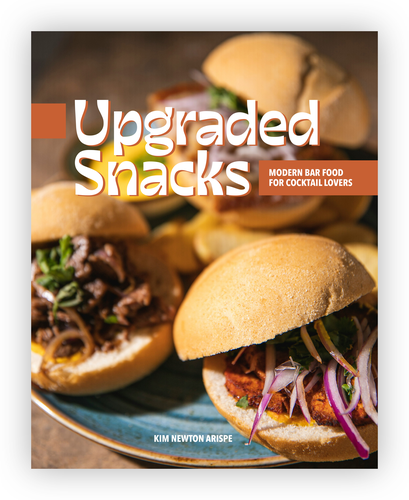
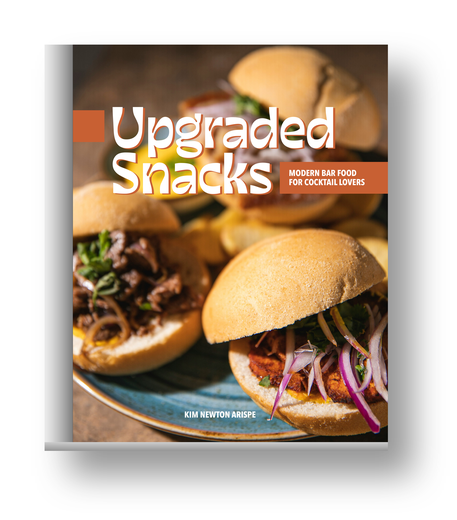
Refine PDP book mockups: byline, neutral spine, real depth
Adds the missing "Kim Newton Arispe" byline above each title in the
PDP's "More from author" carousel, and rebuilds the book mockup
images to actually look like physical books: a neutral gray/white
spine bevel (was incorrectly showing printed spine/back-cover art),
a visible bottom page-edge for thickness, and an offset directional
shadow instead of a symmetric blur.

diff --git a/src/CheckoutLinkApp.jsx b/src/CheckoutLinkApp.jsx
@@ -63,11 +63,12 @@ const BLURB_LOGO_EMAIL = "/assets/blurb-logo-email.png";  // full-color logo for
 const US_FLAG = "/assets/us-flag.png";  // Codex dashboard nav region flag (node 4248:8889) — flat icon, not the emoji glyph
 const BOOK_STIRRED_OBSESSION = "/assets/book-stirred-obsession.jpg";
 const BOOK_SPIRIT_SMOKE_SALT = "/assets/book-spirit-smoke-salt.jpg";
-/* Same front covers as above, given a soft drop shadow (front cover only, no
-   spine) matching BOOK_COVER's treatment — used only on the PDP's "More from
-   author" carousel, which shows other titles as physical books rather than
-   flat cover art. Setup/Instant Stores/All Projects keep the flat,
-   trim-accurate crops above. */
+/* Same front covers as above, composited onto a neutral gray/white spine
+   bevel (a lighting gradient + crease, not printed spine art) plus a soft
+   drop shadow (Figma 3709:18021, "Product Carousel") — used only on the
+   PDP's "More from author" carousel, which shows other titles as physical
+   books rather than flat cover art. Setup/Instant Stores/All Projects keep
+   the flat, trim-accurate crops above. */
 const BOOK_EVERYDAY_MOCKTAILS_MOCKUP = "/assets/book-everyday-mocktails-mockup.png";
 const BOOK_UPGRADED_SNACKS_MOCKUP = "/assets/book-upgraded-snacks-mockup.png";
 const PUBLISH_CELEBRATION = "/assets/publish-celebration.png";
@@ -1447,12 +1448,11 @@ function ProductPage({ variant, format, setFormat, onAddToCart, onCartClick, car
             {[["Everyday Mocktails: Quick and Delicious Alcohol-Free Drinks","Craft artfully balanced recipes that apply authentic cocktail craft, complex botanicals, and sophisticated flavor pairings to every glass. Author Kim Newton Arispe elevates non-alcoholic mixology into a refined culinary art, giving zero-proof drinks the prestige, care, and attention they deserve. Designed for intentional drinkers and elevated hosts, this vibrant guide demonstrates how house-infused teas, artisanal syrups, and precise technique turn every pour into an extraordinary experience. Inside you'll find: Chef-Level Craft — artfully balanced flavor profiles featuring artisanal syrups, fresh garden botanicals, and layered aromatic bitters; Bar-Quality Presentation — professional techniques for selecting glassware, carving ice, and finishing drinks with modern garnishes; Elevated Sips — rich, complex drinks engineered for quiet lounge evenings, high-energy celebrations, and memorable dinner pairings; and Precision Balance — straightforward methods that master acidity, sweetness, texture, and body in every glass. Transform your home bar into a world-class lounge and savor the refined art of high-end mixology.","$28.00",BOOK_EVERYDAY_MOCKTAILS_MOCKUP],
               ["Upgraded Snacks","Turn casual drink nights into extraordinary culinary events with chef-inspired small plates, savory bites, and gourmet pub fare explicitly crafted to complement modern cocktails. Designed for adventurous home hosts, this practical cookbook bridges the gap between craft mixology and restaurant-quality lounge food. Discover how rich cheeses, bold spices, cured meats, and crispy textures balance sweet, bitter, and botanical spirits to create perfect flavor harmony on your palate.","$40.00",BOOK_UPGRADED_SNACKS_MOCKUP]].map(([t,d,p,img]) => (
               <div key={t} style={{ width:410.67, maxWidth:"100%", display:"flex", flexDirection:"column", gap:16 }}>
-                {/* Square frame (Figma 410.667²); absolutely-positioned img so aspect-ratio
-                    controls the height and the portrait cover is contained (gaps on the sides) */}
-                <div style={{ position:"relative", width:"100%", aspectRatio:"1 / 1", borderRadius:8, overflow:"hidden" }}>
-                  <img src={img} alt={t} style={{ position:"absolute", inset:0, width:"100%", height:"100%", objectFit:"contain", display:"block" }} />
-                </div>
+                {/* Fixed-width card; each mockup keeps its own natural aspect ratio (no
+                    forced square/letterboxing) — a portrait cover just runs taller. */}
+                <img src={img} alt={t} style={{ width:"100%", height:"auto", display:"block" }} />
                 <div style={{ display:"flex", flexDirection:"column", gap:8, padding:"0 12px" }}>
+                  <p style={{ fontSize:14, color:T.textSubtle, lineHeight:1.4 }}>{PRODUCT.author}</p>
                   <p style={{ fontFamily:FONT_HEADING, fontSize:24, fontWeight:500, lineHeight:1.2, color:T.textBold }}>{t}</p>
                   <p style={{ fontSize:16, color:T.textSubtle, lineHeight:1.4,
                     display:"-webkit-box", WebkitLineClamp:2, WebkitBoxOrient:"vertical", overflow:"hidden" }}>{d}</p>
